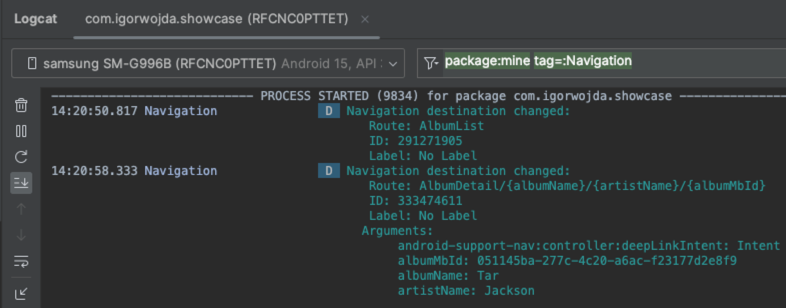
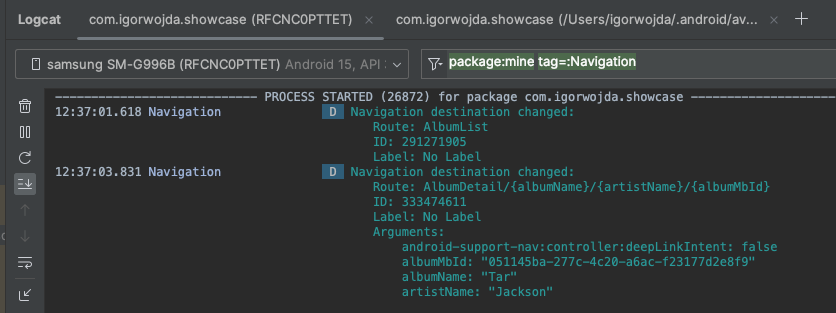
Update Destination Changed Listener (#675)
* Add addOnDestinationChangedListener only for debug builds

* Extract NavigationDestinationLogger

* Apply automatic code style fixes

* Simplify code

* Upd screenshoot

* Apply automatic code style fixes

* Simplify code

diff --git a/app/src/main/kotlin/com/igorwojda/showcase/app/presentation/MainShowcaseScreen.kt b/app/src/main/kotlin/com/igorwojda/showcase/app/presentation/MainShowcaseScreen.kt
@@ -13,16 +13,20 @@ import androidx.navigation.compose.composable
 import androidx.navigation.compose.rememberNavController
 import androidx.navigation.createGraph
 import androidx.navigation.toRoute
+import com.igorwojda.showcase.app.BuildConfig
+import com.igorwojda.showcase.app.presentation.util.NavigationDestinationLogger
 import com.igorwojda.showcase.feature.album.presentation.screen.albumdetail.AlbumDetailScreen
 import com.igorwojda.showcase.feature.album.presentation.screen.albumlist.AlbumListScreen
 import com.igorwojda.showcase.feature.favourite.presentation.screen.favourite.FavouriteScreen
 import com.igorwojda.showcase.feature.settings.presentation.screen.settings.SettingsScreen
-import timber.log.Timber
 
 @Composable
 fun MainShowcaseScreen(modifier: Modifier = Modifier) {
     val navController = rememberNavController()
-    addOnDestinationChangedListener(navController)
+
+    if (BuildConfig.DEBUG) {
+        addOnDestinationChangedListener(navController)
+    }
 
     Scaffold(
         modifier = modifier.fillMaxSize(),
@@ -77,39 +81,7 @@ private fun addOnDestinationChangedListener(navController: NavController) {
                 destination: NavDestination,
                 arguments: Bundle?,
             ) {
-                logDestinationChange(destination, arguments)
-            }
-
-            private fun logDestinationChange(
-                destination: NavDestination,
-                arguments: Bundle?,
-            ) {
-                val className = NavigationRoute::class.simpleName
-                val destinationRoute = destination.route?.substringAfter("$className.") ?: "Unknown"
-                val destinationId = destination.id
-                val destinationLabel = destination.label ?: "No Label"
-
-                val logMessage =
-                    buildString {
-                        appendLine("Navigation destination changed:")
-                        appendLine("\tRoute: $destinationRoute")
-                        appendLine("\tID: $destinationId")
-                        appendLine("\tLabel: $destinationLabel")
-
-                        // Log arguments if they exist
-                        arguments?.let { bundle ->
-                            if (!bundle.isEmpty) {
-                                appendLine("  Arguments:")
-
-                                for (key in bundle.keySet()) {
-                                    val value = bundle.get(key)
-                                    appendLine("\t\t$key: $value")
-                                }
-                            }
-                        }
-                    }
-
-                Timber.tag("Navigation").d(logMessage)
+                NavigationDestinationLogger.logDestinationChange(destination, arguments)
             }
         },
     )

diff --git a/app/src/main/kotlin/com/igorwojda/showcase/app/presentation/util/NavigationDestinationLogger.kt b/app/src/main/kotlin/com/igorwojda/showcase/app/presentation/util/NavigationDestinationLogger.kt
@@ -1,0 +1,59 @@
+package com.igorwojda.showcase.app.presentation.util
+
+import android.os.Bundle
+import androidx.navigation.NavDestination
+import com.igorwojda.showcase.app.presentation.NavigationRoute
+import timber.log.Timber
+
+object NavigationDestinationLogger {
+    fun logDestinationChange(
+        destination: NavDestination,
+        arguments: Bundle?,
+    ) {
+        val className = NavigationRoute::class.simpleName
+        val destinationRoute = destination.route?.substringAfter("$className.") ?: "Unknown"
+        val destinationId = destination.id
+        val destinationLabel = destination.label ?: "No Label"
+
+        val logMessage =
+            buildString {
+                appendLine("Navigation destination changed:")
+                appendLine("\tRoute: $destinationRoute")
+                appendLine("\tID: $destinationId")
+                appendLine("\tLabel: $destinationLabel")
+
+                arguments?.let { bundle ->
+                    if (!bundle.isEmpty) {
+                        appendLine("   Arguments:")
+                        bundle.keySet().forEach { key ->
+                            val value = getValueFromBundle(bundle, key) ?: "null"
+                            appendLine("\t\t$key: $value")
+                        }
+                    }
+                }
+            }
+
+        Timber.tag("Navigation").d(logMessage)
+    }
+
+    /**
+     * Retrieves a value from Bundle using Android Navigation supported types.
+     * Navigation supports: String, Int, Long, Float, Boolean, Parcelable, Serializable, and their arrays.
+     *
+     * @return String representation of the value, or null if no matching type found
+     */
+    private fun getValueFromBundle(
+        bundle: Bundle,
+        key: String,
+    ): String? =
+        bundle.getString(key)?.let { "\"$it\"" }
+            ?: runCatching { bundle.getInt(key) }.getOrNull()?.toString()
+            ?: runCatching { bundle.getLong(key) }.getOrNull()?.toString()
+            ?: runCatching { bundle.getFloat(key) }.getOrNull()?.toString()
+            ?: runCatching { bundle.getBoolean(key) }.getOrNull()?.toString()
+            ?: bundle.getStringArray(key)?.contentToString()
+            ?: bundle.getIntArray(key)?.contentToString()
+            ?: bundle.getLongArray(key)?.contentToString()
+            ?: bundle.getFloatArray(key)?.contentToString()
+            ?: bundle.getBooleanArray(key)?.contentToString()
+}
